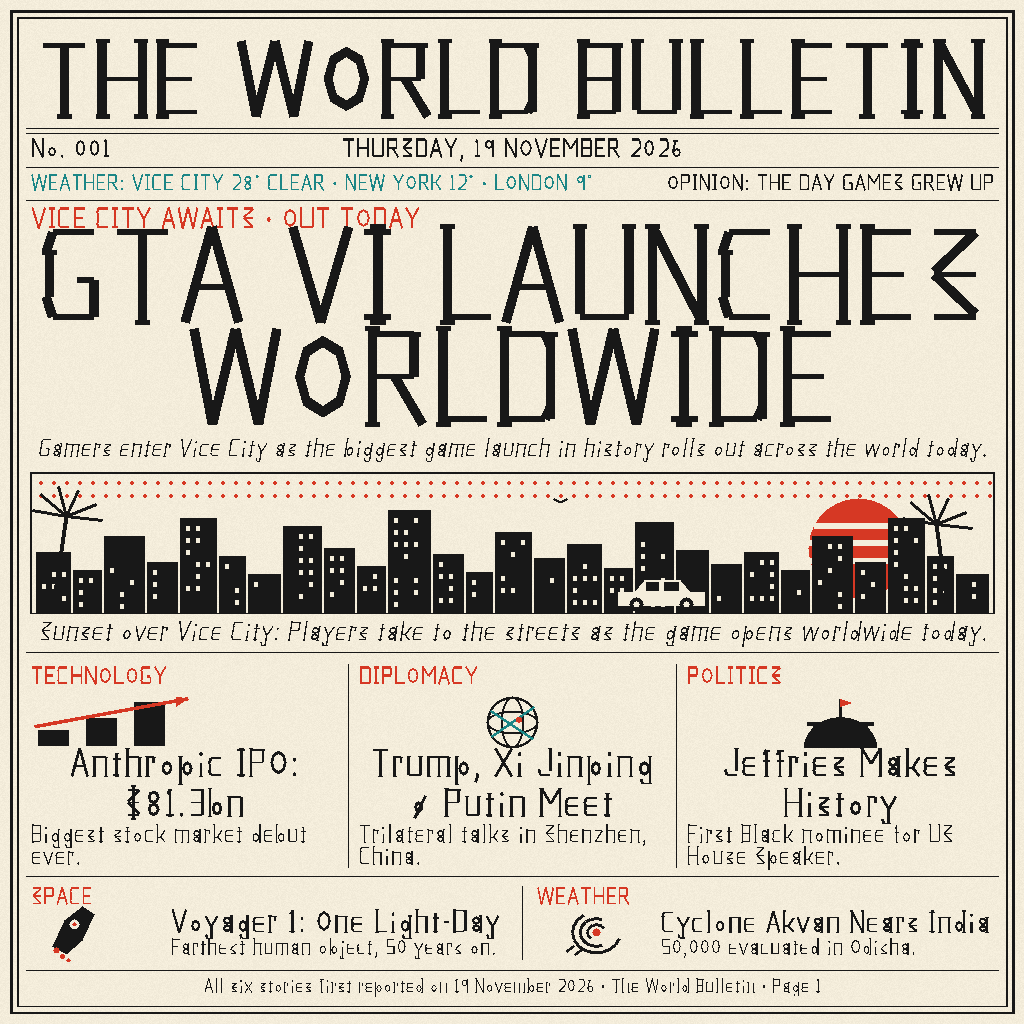
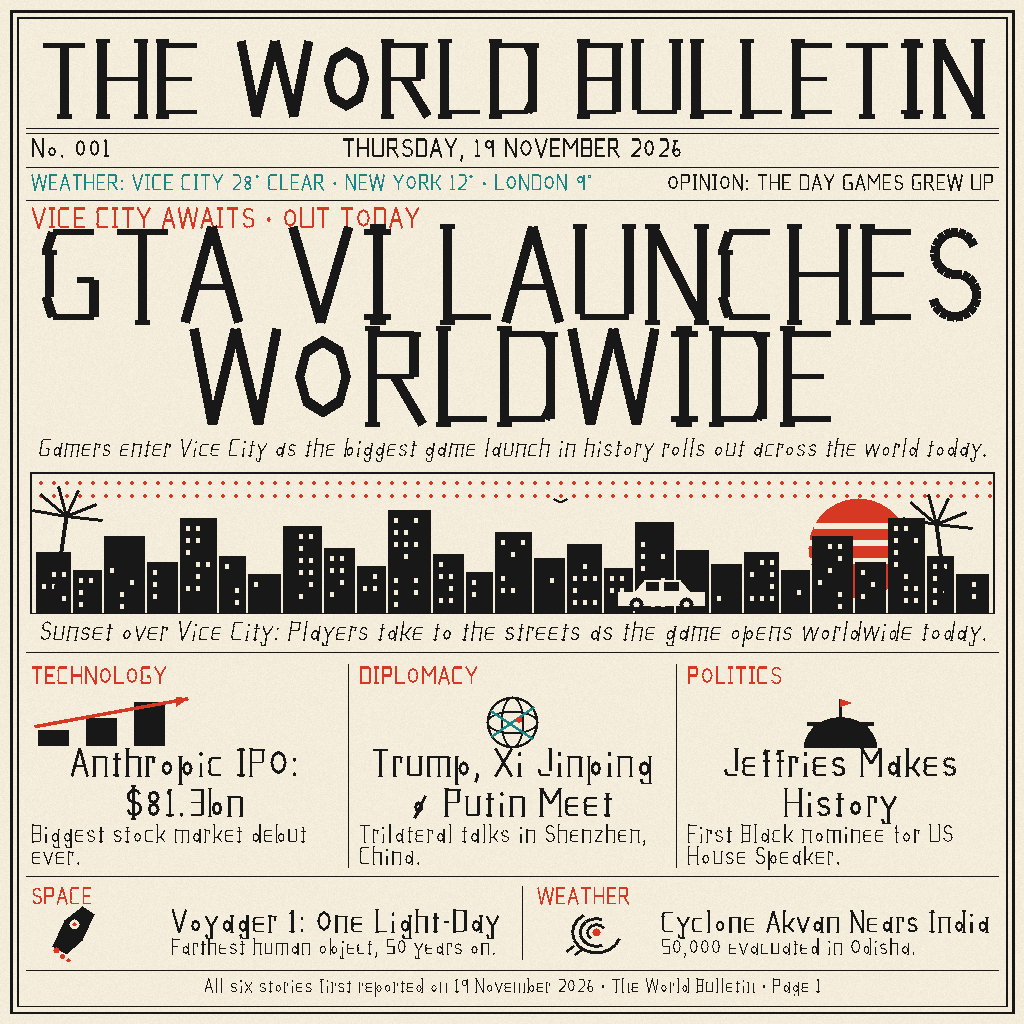
Fix S, s, a and $ glyphs: smooth two-curve S (was sigma zigzag), single-story a (was triangle)

Changed region(s): [[0.9062, 0.2188, 0.9688, 0.3125]]

diff --git a/main.ts b/main.ts
@@ -222,7 +222,7 @@ const GLYPHS: Record<string, Glyph> = {
   P: { w: 5.4, p: [["v", 0.7, 0, 7], ["h", 0.4, 0.7, 4.4], ["h", 3.5, 0.7, 4.4], ["v", 4.4, 0.4, 3.5]] },
   Q: { w: 6.0, p: [["o", 3.0, 3.5, 2.5, 3.0], ["d", 4.2, 5.2, 5.6, 7]] },
   R: { w: 5.6, p: [["v", 0.7, 0, 7], ["h", 0.4, 0.7, 4.4], ["h", 3.5, 0.7, 4.4], ["v", 4.4, 0.4, 3.5], ["d", 2.7, 3.5, 5.2, 7]] },
-  S: { w: 5.4, p: [["h", 0.4, 1.0, 4.7], ["d", 4.7, 0.4, 1.0, 3.3], ["h", 3.5, 1.0, 4.7], ["d", 1.0, 3.5, 4.7, 6.4], ["h", 6.6, 1.0, 4.7]] },
+  S: { w: 5.4, p: [["d", 4.54, 1.42, 4.23, 0.95], ["d", 4.23, 0.95, 3.75, 0.61], ["d", 3.75, 0.61, 3.16, 0.42], ["d", 3.16, 0.42, 2.54, 0.42], ["d", 2.54, 0.42, 1.95, 0.61], ["d", 1.95, 0.61, 1.47, 0.95], ["d", 1.47, 0.95, 1.16, 1.42], ["d", 1.16, 1.42, 1.05, 1.95], ["d", 1.05, 1.95, 1.16, 2.48], ["d", 1.16, 2.48, 1.47, 2.95], ["d", 1.47, 2.95, 1.95, 3.29], ["d", 1.95, 3.29, 2.54, 3.48], ["d", 2.54, 3.48, 2.85, 3.5], ["d", 2.85, 3.5, 3.52, 3.5], ["d", 3.52, 3.5, 4.1, 3.77], ["d", 4.1, 3.77, 4.54, 4.2], ["d", 4.54, 4.2, 4.77, 4.72], ["d", 4.77, 4.72, 4.77, 5.28], ["d", 4.77, 5.28, 4.54, 5.8], ["d", 4.54, 5.8, 4.1, 6.23], ["d", 4.1, 6.23, 3.52, 6.5], ["d", 3.52, 6.5, 2.85, 6.6], ["d", 2.85, 6.6, 2.18, 6.5], ["d", 2.18, 6.5, 1.6, 6.23], ["d", 1.6, 6.23, 1.16, 5.8], ["d", 1.16, 5.8, 0.93, 5.28]] },
   T: { w: 5.4, p: [["h", 0.4, 0.4, 5.0], ["v", 2.7, 0.4, 7]] },
   U: { w: 5.8, p: [["v", 0.7, 0, 6.4], ["v", 5.1, 0, 6.4], ["h", 6.6, 0.7, 5.1]] },
   V: { w: 5.8, p: [["d", 0.4, 0, 2.9, 7], ["d", 2.9, 7, 5.4, 0]] },
@@ -230,7 +230,7 @@ const GLYPHS: Record<string, Glyph> = {
   X: { w: 5.8, p: [["d", 0.4, 0, 5.4, 7], ["d", 5.4, 0, 0.4, 7]] },
   Y: { w: 5.8, p: [["d", 0.4, 0, 2.9, 3.8], ["d", 5.4, 0, 2.9, 3.8], ["v", 2.9, 3.8, 7]] },
   Z: { w: 5.4, p: [["h", 0.4, 0.6, 4.8], ["d", 4.8, 0.4, 0.6, 6.6], ["h", 6.6, 0.6, 4.8]] },
-  a: { w: 5.2, p: [["o", 2.5, 3.4, 1.6, 1.3], ["o", 2.5, 5.7, 1.6, 1.2], ["v", 4.1, 2, 7]] },
+  a: { w: 5.2, p: [["o", 2.5, 5.0, 1.7, 1.8], ["v", 4.2, 2, 7]] },
   b: { w: 5.2, p: [["v", 0.9, 0, 7], ["o", 3.0, 5.0, 1.6, 1.8]] },
   c: { w: 4.8, p: [["h", 2.4, 1.0, 4.2], ["d", 1.0, 2.4, 0.4, 3.8], ["v", 0.7, 3.8, 5.4], ["d", 0.4, 5.4, 1.0, 6.6], ["h", 6.6, 1.0, 4.2]] },
   d: { w: 5.2, p: [["o", 2.3, 5.0, 1.6, 1.8], ["v", 4.3, 0, 7]] },
@@ -248,7 +248,7 @@ const GLYPHS: Record<string, Glyph> = {
   p: { w: 5.2, p: [["v", 0.9, 2, 9], ["o", 3.0, 5.0, 1.6, 1.8]] },
   q: { w: 5.2, p: [["o", 2.3, 5.0, 1.6, 1.8], ["v", 4.3, 2, 9]] },
   r: { w: 3.6, p: [["v", 0.9, 2, 7], ["h", 2.2, 0.9, 2.8], ["v", 2.8, 2.2, 3.6]] },
-  s: { w: 4.8, p: [["h", 2.4, 1.0, 4.0], ["d", 4.0, 2.4, 1.0, 4.4], ["h", 4.6, 1.0, 4.0], ["d", 1.0, 4.6, 4.0, 6.4], ["h", 6.6, 1.0, 4.0]] },
+  s: { w: 4.8, p: [["d", 3.86, 3.09, 3.59, 2.78], ["d", 3.59, 2.78, 3.18, 2.54], ["d", 3.18, 2.54, 2.67, 2.42], ["d", 2.67, 2.42, 2.13, 2.42], ["d", 2.13, 2.42, 1.63, 2.54], ["d", 1.63, 2.54, 1.21, 2.78], ["d", 1.21, 2.78, 0.94, 3.09], ["d", 0.94, 3.09, 0.85, 3.45], ["d", 0.85, 3.45, 0.94, 3.81], ["d", 0.94, 3.81, 1.21, 4.12], ["d", 1.21, 4.12, 1.63, 4.36], ["d", 1.63, 4.36, 2.13, 4.48], ["d", 2.13, 4.48, 2.4, 4.5], ["d", 2.4, 4.5, 2.95, 4.61], ["d", 2.95, 4.61, 3.43, 4.8], ["d", 3.43, 4.8, 3.79, 5.07], ["d", 3.79, 5.07, 3.98, 5.42], ["d", 3.98, 5.42, 3.98, 5.78], ["d", 3.98, 5.78, 3.79, 6.12], ["d", 3.79, 6.12, 3.43, 6.4], ["d", 3.43, 6.4, 2.95, 6.59], ["d", 2.95, 6.59, 2.4, 6.65], ["d", 2.4, 6.65, 1.85, 6.59], ["d", 1.85, 6.59, 1.37, 6.4], ["d", 1.37, 6.4, 1.01, 6.12], ["d", 1.01, 6.12, 0.82, 5.78]] },
   t: { w: 3.4, p: [["v", 1.7, 1.2, 7], ["h", 2.6, 0.7, 3.1], ["h", 6.6, 0.7, 2.5]] },
   u: { w: 5.4, p: [["v", 0.9, 2, 6.6], ["v", 4.5, 2, 6.6], ["h", 6.6, 0.9, 4.5]] },
   v: { w: 5.2, p: [["d", 0.4, 2, 2.6, 7], ["d", 2.6, 7, 4.8, 2]] },
@@ -270,7 +270,7 @@ const GLYPHS: Record<string, Glyph> = {
   ",": { w: 2.4, p: [["f", 1.2, 6.6, 0.5, 0.5], ["d", 1.5, 6.8, 0.7, 8.4]] },
   ":": { w: 2.4, p: [["f", 1.2, 2.8, 0.5, 0.5], ["f", 1.2, 6.4, 0.5, 0.5]] },
   ";": { w: 2.4, p: [["f", 1.2, 2.8, 0.5, 0.5], ["f", 1.2, 6.4, 0.5, 0.5], ["d", 1.5, 6.6, 0.7, 8.2]] },
-  $: { w: 5.4, p: [["h", 0.4, 1.0, 4.4], ["d", 4.4, 0.4, 1.0, 3.3], ["h", 3.5, 1.0, 4.4], ["d", 1.0, 3.5, 4.4, 6.4], ["h", 6.6, 1.0, 4.4], ["v", 2.7, -0.6, 7.6]] },
+  $: { w: 5.4, p: [["d", 4.54, 1.42, 4.23, 0.95], ["d", 4.23, 0.95, 3.75, 0.61], ["d", 3.75, 0.61, 3.16, 0.42], ["d", 3.16, 0.42, 2.54, 0.42], ["d", 2.54, 0.42, 1.95, 0.61], ["d", 1.95, 0.61, 1.47, 0.95], ["d", 1.47, 0.95, 1.16, 1.42], ["d", 1.16, 1.42, 1.05, 1.95], ["d", 1.05, 1.95, 1.16, 2.48], ["d", 1.16, 2.48, 1.47, 2.95], ["d", 1.47, 2.95, 1.95, 3.29], ["d", 1.95, 3.29, 2.54, 3.48], ["d", 2.54, 3.48, 2.85, 3.5], ["d", 2.85, 3.5, 3.52, 3.5], ["d", 3.52, 3.5, 4.1, 3.77], ["d", 4.1, 3.77, 4.54, 4.2], ["d", 4.54, 4.2, 4.77, 4.72], ["d", 4.77, 4.72, 4.77, 5.28], ["d", 4.77, 5.28, 4.54, 5.8], ["d", 4.54, 5.8, 4.1, 6.23], ["d", 4.1, 6.23, 3.52, 6.5], ["d", 3.52, 6.5, 2.85, 6.6], ["d", 2.85, 6.6, 2.18, 6.5], ["d", 2.18, 6.5, 1.6, 6.23], ["d", 1.6, 6.23, 1.16, 5.8], ["d", 1.16, 5.8, 0.93, 5.28], ["v", 2.7, -0.6, 7.6]] },
   "&": { w: 5.8, p: [["o", 2.1, 4.6, 1.4, 1.4], ["d", 4.2, 1.8, 0.8, 7.4], ["d", 0.8, 7.4, 2.5, 5.4]] },
   "-": { w: 3.2, p: [["h", 3.8, 0.6, 2.6]] },
   "•": { w: 2.8, p: [["f", 1.4, 4.0, 0.8, 0.8]] },
